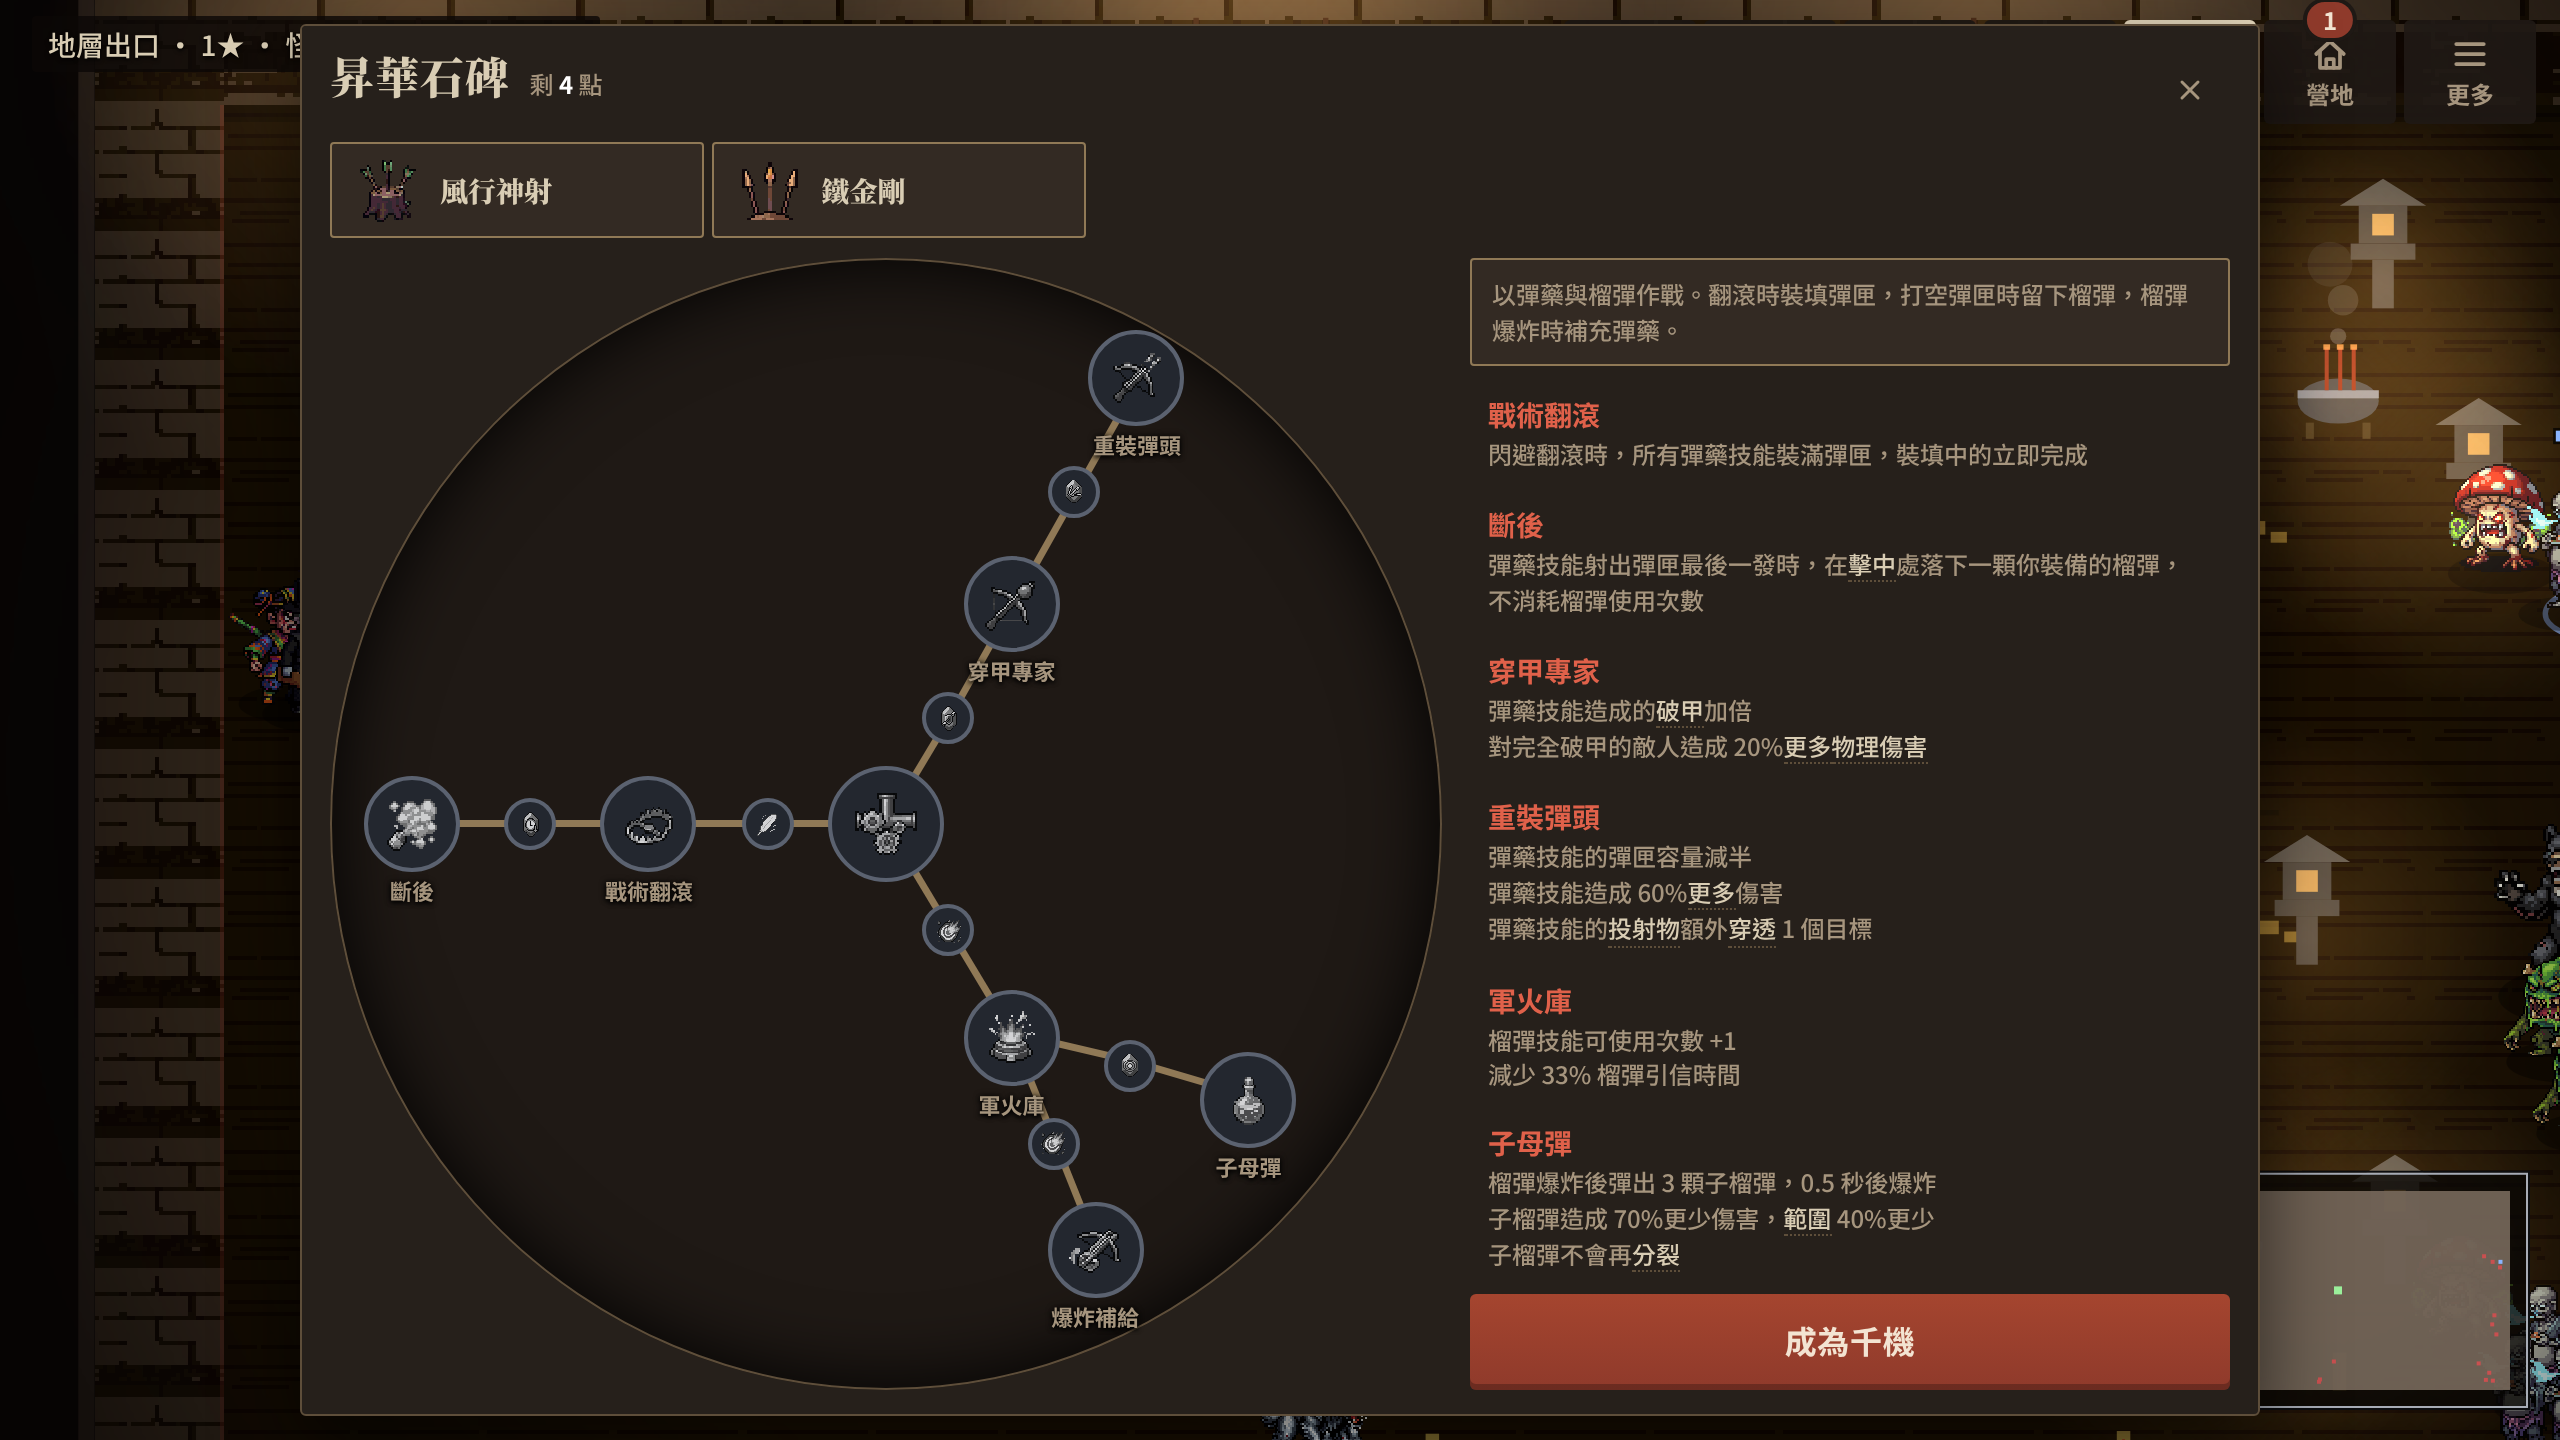
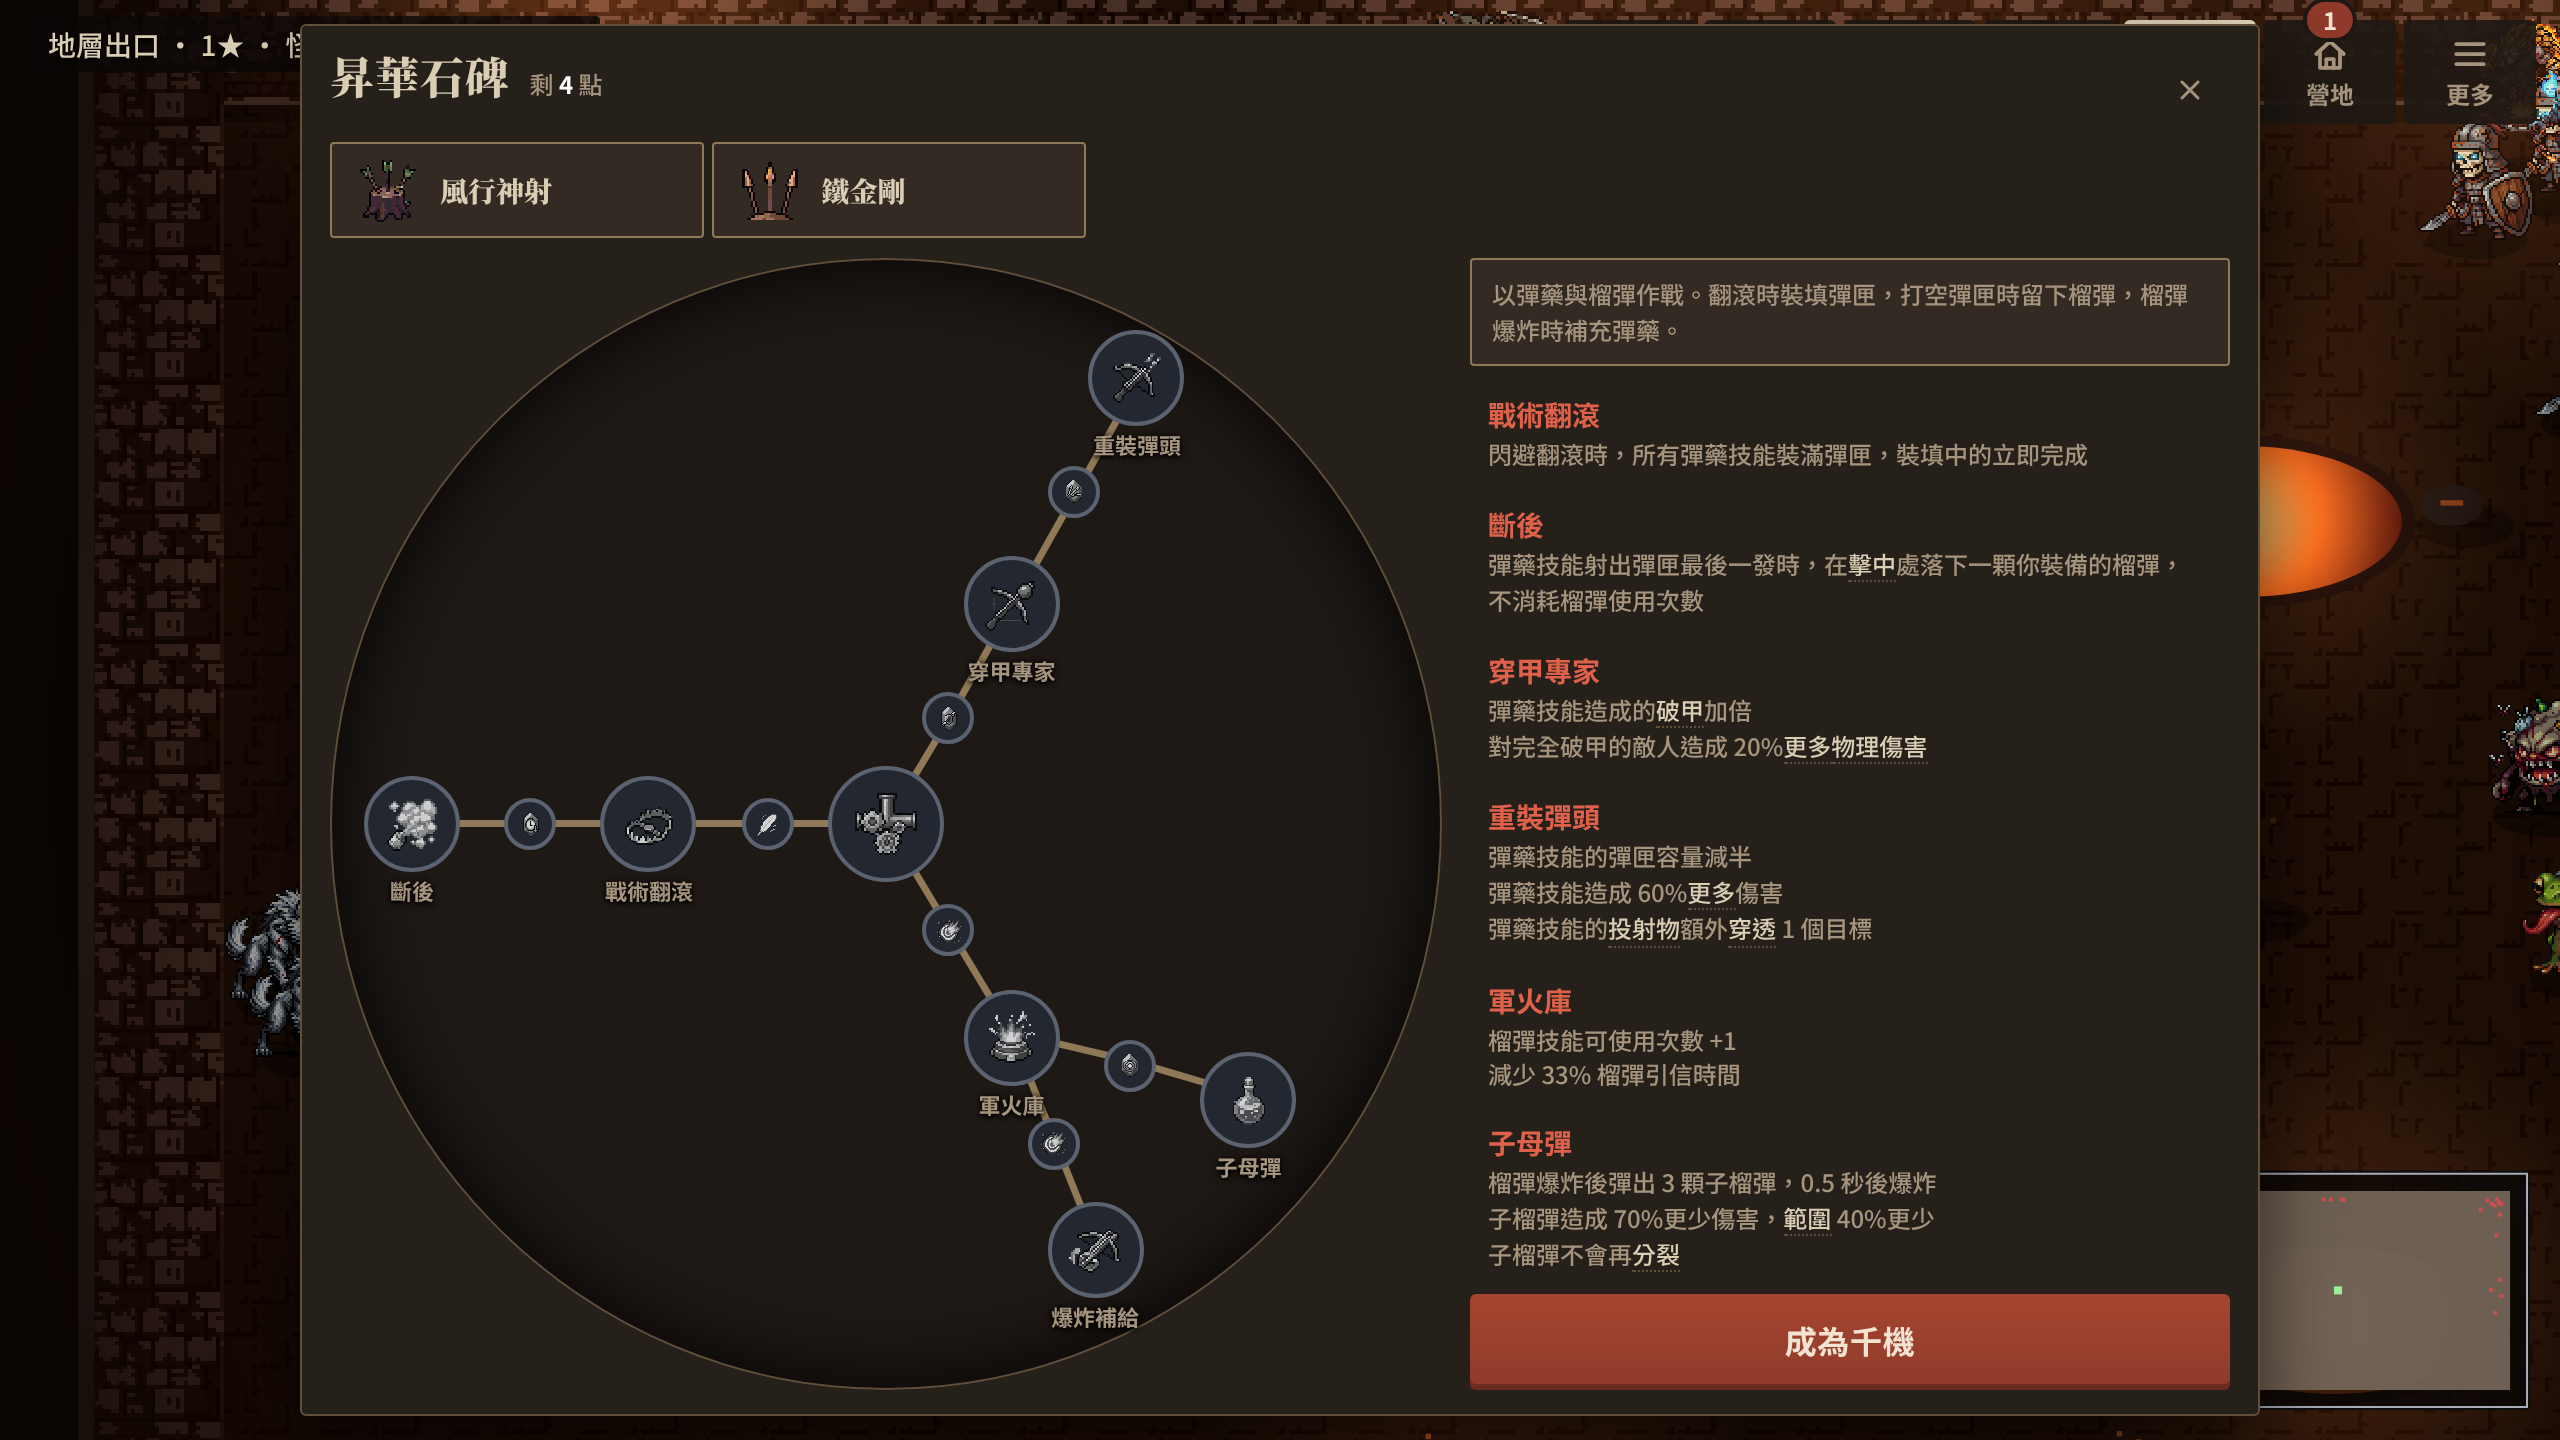
併 main 後重跑驗收、CHANGELOG 排版
Claude-Session: https://claude.ai/code/session_01LdUmBLfA1jEaMu8NDG3Dae

diff --git a/docs/production/CHANGELOG.md b/docs/production/CHANGELOG.md
@@ -2,7 +2,7 @@
 
 所有決定與調整，新的在上，一行一條：`日期 時間｜決定者｜影響工項｜結論`。要記新的決定就加一行在最上面，不要改寫規格或任務檔裡的歷史。2026-11-17 以前的列由企劃書決策紀錄轉來；「—」是原紀錄沒寫時間。
 - 2026-11-18 15:30｜開發工程師｜hotfix-ui（mumi 手機回報）｜裝備格只剩「T6」米色方塊：起因是 10a5139（repo 第一個提交）就有的 class 撞名——角標 `.btr.top` 吃到 HUD 頂列 `.top` 的 `position:absolute; top; left`，改名 `btop`（不是 PR #66／token 收斂）；掛機卡資源列大數字縮寫（1 萬以上 671k／2.64M）＋速率放不下換行；touch_check 加兩條會在這兩個錯誤下失敗的斷言
-- 2026-11-18 14:10｜開發工程師（依製作人 13:5x 指定）｜dpoe-mag-term｜遊戲內「彈夾」改「彈匣」（名詞表 v0.6.4），只改顯示文字與註解、工具說明字串；程式識別字、存檔欄位、數值、版面不動；不換版本號
+- 2026-11-18 14:05｜開發工程師（依製作人 13:5x 指定）｜dpoe-mag-term｜遊戲內「彈夾」改「彈匣」（名詞表 v0.6.4），只改顯示文字與註解、工具說明字串；程式識別字、存檔欄位、數值、版面不動；不換版本號
 - 2026-11-18 13:40｜美術總監（mumi 經幕僚長批准）｜M2-36、M2-39｜更正：120 是 M2-36 自設花費上限，不是帳號餘額（帳號約 1139 次）；M2-39 另設上限 100 次已批准：佇列 40 枚做 16+32、優先 16 枚補獨立 32，約 96 次（備用 4），提示詞 specs/M2-39-pixellab-prompts.md；優先 16 手繪仍在挑圖 Page 給 mumi 挑
 - 2026-11-18 13:39｜美術總監（依 mumi 13:34／13:36 決定，經製作人）｜M2-13、M2-12、M2-34｜試招場改成獨立的空曠地城：mumi 決定刷圖中也能進（先出回營地那張確認卡）、離開一律回營地（DPS 卡只有一顆「離開」）、主角在房間內自由移動；`specs/M2-33-addendum-camp-zoom.md` §2 改寫：淡出 120／淡入 160 傳送；房間 10×8 格（裡面 8×6）、temple 定稿地磚、不生成；三個舊稻草人腳底排在第 3 列、出生點在下方；房間放得進可用區時鏡頭固定（390、1280、1440、1920），375 直向跟主角；營地留「試招場」名牌當入口、石圈留作裝飾（烘在底圖裡，不重烘），拿掉營地稻草人與進圈判斷；§1 捷徑列與地點清單刷圖中也有試招場、§4 Q1／Q2 照新決定；M2-34 第 2 批 C-1、C-2、C-4、C-5 跟著改
 - 2026-11-18 13:37｜mumi（經幕僚長）｜全專案｜功能類先停、全力改 UI/UX，營地畫面第一；暫停 M2-13（含補遺 §2）、商會階級上限實作、M2-22、M2-27、M2-20、M3-01、M2-24 演出；已完成的文件與工具 PR（#79、#80、#81、#83）及 #68、#85 收尾合併；錯誤修正照常（hotfix-ui、#77 三項、M2-25）

diff --git a/CHANGELOG.md b/CHANGELOG.md
@@ -4,6 +4,7 @@
 
 錯誤修正，用語照名詞表 v0.6.4。數值、版面、存檔版本都沒動。
 - 穿甲彈品質「爆彈」、千機（昇華說明與戰術翻滾、斷後、重裝彈頭、爆炸補給四個大點）、能力文字 `tacRoll`／`rearGuard`／`heavyAmmo` 的「彈夾」全改「彈匣」；程式註解與 `tools/check.js`、`tools/dmg_check.js` 的說明字串跟著改（斷言條件不變）。程式識別字（`clipOf`、`ammo` 等）與存檔欄位沒改，這些字串沒有被拿來當鍵比對。
+
 ## 0.5.4 之後：hotfix-ui（還沒換版本號）
 
 - **修正**：裝備格最高階詞的「T」角標 class `top` 撞到 HUD 頂列的 `.top`（絕對定位＋上左距離），角標被撐滿整格、只剩米色方塊（角色頁、戰利品、鍛造換一件）；改名 `btop`。掛機卡／營地資源列大數字縮寫（671k、2.64M），放不下的速率換到下一行，不再超出欄位、蓋到右欄。
